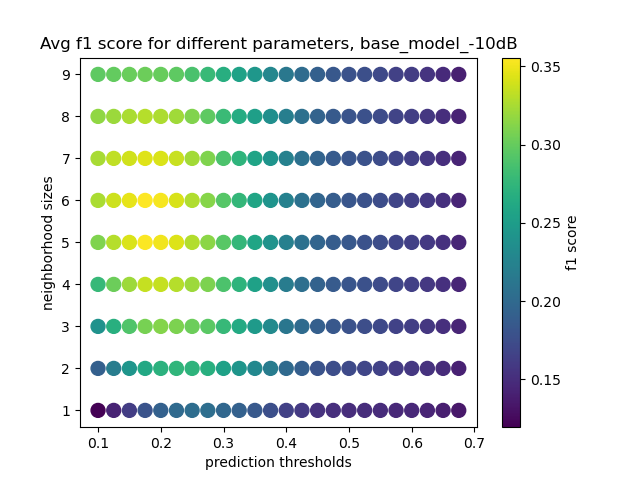
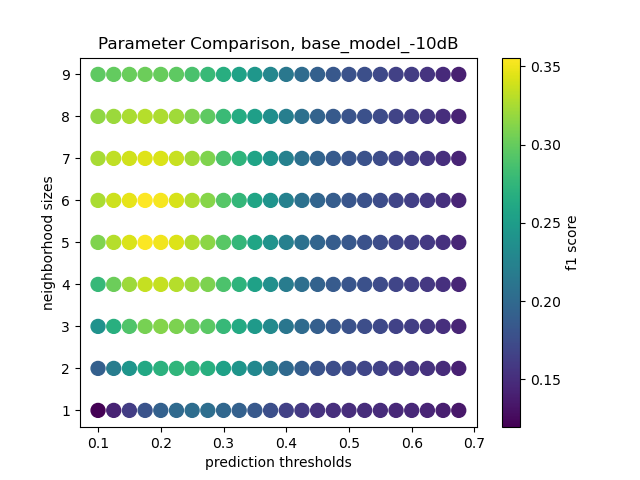
Add evaluation results

Changed region(s): [[0.0625, 0.0625, 0.8125, 0.125]]

diff --git a/plots_for_thesis.py b/plots_for_thesis.py
@@ -11,7 +11,7 @@ save_folder = "plots"
 
 
 def plot_f1_scores_parameters():
-    models = ["base_model_0dB", "base_model_10dB", "base_model_-10dB"]
+    models = ["base_model_0dB", "base_model_10dB", "base_model_-10dB", "base_model_-5dB", "shrec_reconstruction_volume"]
 
     for model in models:
         with open(os.path.join(results_folder, f"{model}_grid_search_parameters.json"), "r") as f:
@@ -25,43 +25,72 @@ def plot_f1_scores_parameters():
         plt.colorbar(label='f1 score')
         plt.xlabel('prediction thresholds')
         plt.ylabel('neighborhood sizes')
-        plt.title(f'Avg f1 score for different parameters, {model}')
+        plt.title(f'Parameter Comparison, {model}')
         plt.savefig(os.path.join(save_folder, f"parameters_{model}.png"))
         plt.close()
 
 
+def plot_vit_models():
+    models = ["vit_models"]
+
+    for model in models:
+        df = pd.read_csv(os.path.join(results_folder, f"{model}.txt"))
+
+        df['vit_model_name'] = df['vit_model_name'].astype(str)
+
+        plt.plot(df['vit_model_name'], df['avg_f1_score'], marker='o', label='F1 Score')
+        plt.plot(df['vit_model_name'], df['avg_precision'], marker='o', label='Precision')
+        plt.plot(df['vit_model_name'], df['avg_recall'], marker='o', label='Recall')
+
+        plt.xlabel("Vit Model Name")
+        plt.ylabel("Score")
+        plt.title("ViT model ablation study")
+        plt.legend()
+        plt.grid(True)
+        plt.xticks(rotation=20)
+        plt.tight_layout()
+        plt.savefig(os.path.join(save_folder, f"{model}.png"))
+        plt.close()
+
+
 def plot_finetuning():
-    df = pd.read_csv(os.path.join(results_folder, "finetuning_vit.txt"))
+    models = ["finetuning_vit", "new_finetuning_vit"]
 
-    plt.plot(df['finetuning_layers'], df['avg_f1_score'], marker='o', label='F1 Score')
-    plt.plot(df['finetuning_layers'], df['avg_precision'], marker='o', label='Precision')
-    plt.plot(df['finetuning_layers'], df['avg_recall'], marker='o', label='Recall')
+    for model in models:
+        df = pd.read_csv(os.path.join(results_folder, f"{model}.txt"))
 
-    plt.xlabel('Finetuned Layers')
-    plt.ylabel('Score')
-    plt.title('Number of finetuned layers ablation study')
-    plt.legend()
-    plt.grid(True)
-    plt.savefig(os.path.join(save_folder, "finetuning_vit.png"))
-    plt.close()
+        plt.plot(df['finetuning_layers'], df['avg_f1_score'], marker='o', label='F1 Score')
+        plt.plot(df['finetuning_layers'], df['avg_precision'], marker='o', label='Precision')
+        plt.plot(df['finetuning_layers'], df['avg_recall'], marker='o', label='Recall')
+
+        plt.xlabel('Finetuned Layers')
+        plt.ylabel('Score')
+        plt.title('Number of finetuned layers ablation study')
+        plt.legend()
+        plt.grid(True)
+        plt.savefig(os.path.join(save_folder, f"{model}.png"))
+        plt.close()
 
 
 def plot_model_size():
-    df = pd.read_csv(os.path.join(results_folder, "model_size.txt"))
+    models = ["model_size", "new_model_size"]
 
-    df['filters'] = df['model_deconvolution_filters'].astype(str)
+    for model in models:
+        df = pd.read_csv(os.path.join(results_folder, f"{model}.txt"))
 
-    plt.plot(df['filters'], df['avg_f1_score'], marker='o', label='F1 Score')
-    plt.plot(df['filters'], df['avg_precision'], marker='o', label='Precision')
-    plt.plot(df['filters'], df['avg_recall'], marker='o', label='Recall')
+        df['filters'] = df['model_deconvolution_filters'].astype(str)
 
-    plt.xlabel("Model Deconvolution Filters")
-    plt.ylabel("Score")
-    plt.title("Deconvolution filters ablation studies")
-    plt.legend()
-    plt.grid(True)
-    plt.savefig(os.path.join(save_folder, "model_size.png"))
-    plt.close()
+        plt.plot(df['filters'], df['avg_f1_score'], marker='o', label='F1 Score')
+        plt.plot(df['filters'], df['avg_precision'], marker='o', label='Precision')
+        plt.plot(df['filters'], df['avg_recall'], marker='o', label='Recall')
+
+        plt.xlabel("Model Deconvolution Filters")
+        plt.ylabel("Score")
+        plt.title("Deconvolution filters ablation studies")
+        plt.legend()
+        plt.grid(True)
+        plt.savefig(os.path.join(save_folder, f"{model}.png"))
+        plt.close()
 
 
 def plot_noise_levels():
@@ -102,6 +131,7 @@ def main():
     plot_noise_levels()
     plot_training_volumes()
     plot_f1_scores_parameters()
+    plot_vit_models()
 
 
 if __name__ == "__main__":

diff --git a/evaluate.py b/evaluate.py
@@ -378,7 +378,7 @@ def find_optimal_parameters(model_numbers, target_coordinates_dict, output_heatm
         where results is a dictionary with the lists of parameters and avg_f1_scores that were checked
     """
     prediction_threshold_range = torch.arange(0.1, 0.7, 0.025)
-    neighborhood_size_range = torch.arange(1, 10, 1)
+    neighborhood_size_range = torch.arange(5, 6, 1)
     best_f1_score = 0
     best_prediction_threshold = 0
     best_neighborhood_size = 0
@@ -387,6 +387,8 @@ def find_optimal_parameters(model_numbers, target_coordinates_dict, output_heatm
     for prediction_threshold in tqdm(prediction_threshold_range, desc="Grid search prediction threshold"):
         for neighborhood_size in tqdm(neighborhood_size_range, desc="Grid search neighborhood size"):
             avg_f1_score = 0
+            avg_precision = 0
+            avg_recall = 0
             for model_num in model_numbers:
                 evaluation_dict = evaluate_predictions(
                     target_coordinates_dict=target_coordinates_dict, output_heatmaps_volumes=output_heatmaps_volumes,
@@ -394,11 +396,17 @@ def find_optimal_parameters(model_numbers, target_coordinates_dict, output_heatm
                     prediction_threshold=prediction_threshold.item(), neighborhood_size=neighborhood_size.item(),
                     dataset=dataset)
                 avg_f1_score += evaluation_dict["f1_score"]
+                avg_recall += evaluation_dict["recall"]
+                avg_precision += evaluation_dict["precision"]
             avg_f1_score = avg_f1_score / len(model_numbers)
+            avg_recall = avg_recall / len(model_numbers)
+            avg_precision = avg_precision / len(model_numbers)
 
             results["prediction_thresholds"].append(prediction_threshold.item())
             results["neighborhood_sizes"].append(neighborhood_size.item())
             results["avg_f1_scores"].append(avg_f1_score)
+            results["avg_precision"].append(avg_precision)
+            results["avg_recall"].append(avg_recall)
 
             if avg_f1_score > best_f1_score:
                 best_f1_score = avg_f1_score
